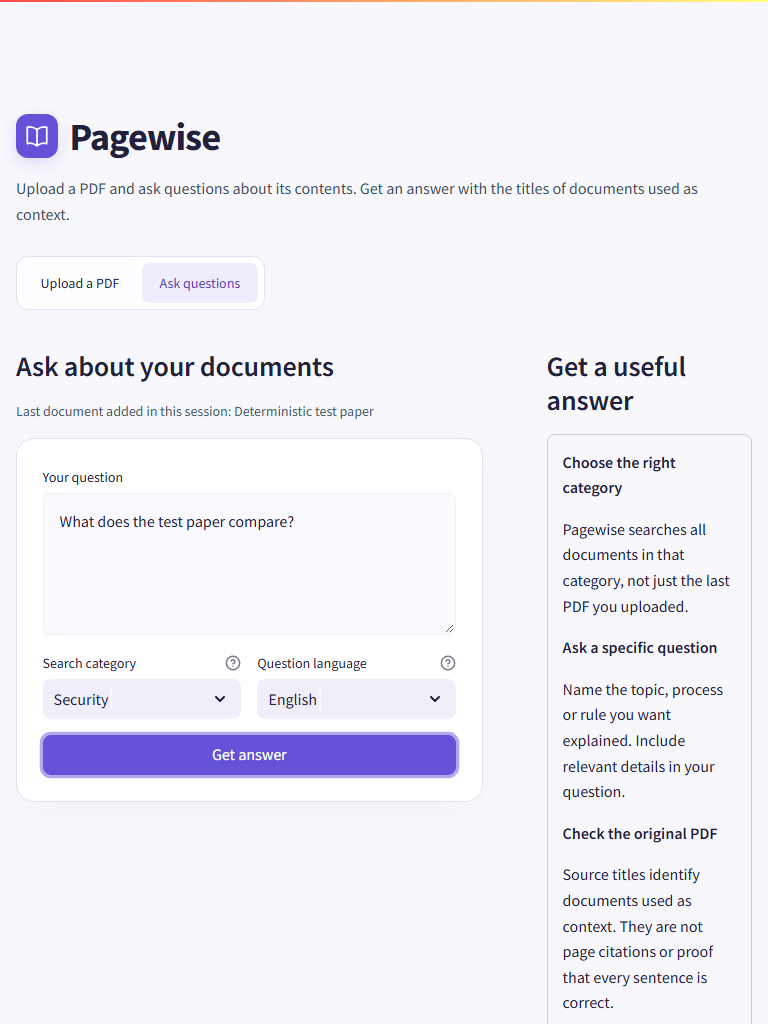
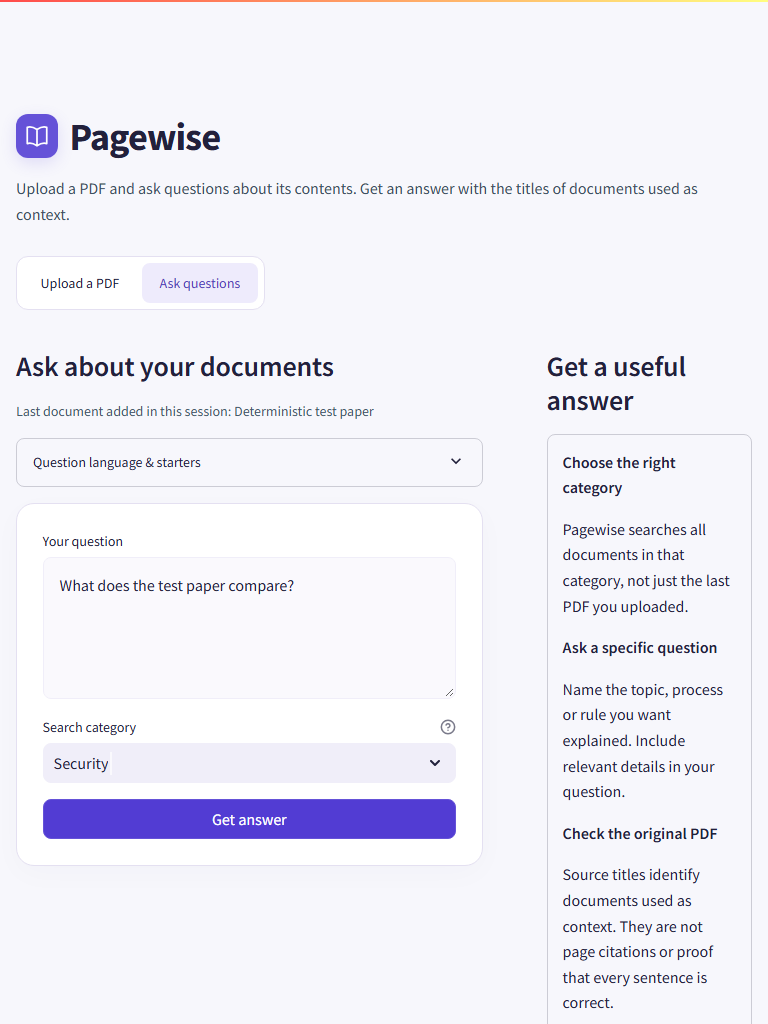
Add localized question starters, session history and answer downloads

diff --git a/frontend/app.py b/frontend/app.py
@@ -38,6 +38,50 @@ def post(path, **kwargs):
     return None
 
 
+QUESTION_STARTERS = {
+    "en": ["Explain the main idea described in the documents.", "What are the main steps described in the documents?", "What conditions or exceptions are mentioned in the documents?"],
+    "es": ["Explica la idea principal descrita en los documentos.", "\u00bfCu\u00e1les son los pasos principales descritos en los documentos?", "\u00bfQu\u00e9 condiciones o excepciones se mencionan en los documentos?"],
+    "fr": ["Expliquez l'id\u00e9e principale pr\u00e9sent\u00e9e dans les documents.", "Quelles sont les principales \u00e9tapes d\u00e9crites dans les documents ?", "Quelles conditions ou exceptions sont mentionn\u00e9es dans les documents ?"],
+    "it": ["Spiega l'idea principale descritta nei documenti.", "Quali sono i passaggi principali descritti nei documenti?", "Quali condizioni o eccezioni sono menzionate nei documenti?"],
+}
+
+
+def use_starter(index):
+    language = st.session_state.get("question_language", "en")
+    st.session_state.question_input = QUESTION_STARTERS.get(language, QUESTION_STARTERS["en"])[index]
+
+
+def show_saved_answer():
+    entry = st.session_state.question_history[st.session_state.history_choice]
+    st.session_state.answer = entry["response"]
+    st.session_state.answer_context = entry
+    st.session_state.question_input = entry["question"]
+    st.session_state.ask_domain = entry["domain"]
+    st.session_state.question_language = entry["source_language"]
+
+
+def clear_question_history():
+    for key in ("question_history", "history_choice", "answer", "answer_context"):
+        st.session_state.pop(key, None)
+    st.session_state.question_input = ""
+
+
+def answer_markdown(entry):
+    response = entry["response"]
+    titles = response.get("references", [])
+    sources = "\n".join("- " + " ".join(title.splitlines()) for title in titles) or "No source documents were retrieved."
+    language = LANGUAGES.get(response.get("language"), "Not recorded")
+    return (
+        "# Pagewise answer\n\n## Question\n" + entry["question"]
+        + "\n\nCategory: " + CATEGORY_LABELS[entry["domain"]]
+        + "\nAnswer language: " + language
+        + "\n\n## Answer\n" + response["answer"]
+        + "\n\n## Retrieved document titles\n" + sources
+        + "\n\nAI-generated answer. Verify important information in the original documents. "
+          "Document titles are not page-level or claim-level citations.\n"
+    )
+
+
 st.set_page_config(page_title="Pagewise", page_icon=":books:", layout="wide")
 st.markdown("""
 <style>
@@ -105,6 +149,7 @@ with tab_upload:
                         st.session_state.last_indexed = {"title": title.strip(), "domain": domain}
                         st.session_state.ask_domain = domain
                         st.session_state.pop("answer", None)
+                        st.session_state.pop("answer_context", None)
                     else:
                         st.error("The service did not confirm that the PDF was prepared. Check before uploading it again.")
         if "last_indexed" in st.session_state:
@@ -130,13 +175,15 @@ with tab_ask:
             st.caption("Last document added in this session: " + st.session_state.last_indexed["title"])
         else:
             st.caption("Upload a PDF first, or choose a category that already contains documents in the shared library.")
+        with st.expander("Question language & starters"):
+            language = st.selectbox("Question language", ["en", "auto", "es", "fr", "it"], format_func=lambda x: "Detect automatically" if x == "auto" else LANGUAGES[x], help="Select the language of your question. The answer will use the same language.", key="question_language")
+            st.caption("Choose a starter, then edit it before submitting. It uses your selected question language; automatic detection starts in English.")
+            for index, (column, label) in enumerate(zip(st.columns(3), ["Explain the main idea", "List the main steps", "Find conditions"])):
+                with column:
+                    st.button(label, on_click=use_starter, args=(index,), use_container_width=True)
         with st.form("ask_form"):
-            question = st.text_area("Your question", placeholder="What are the main steps described in this document?", height=140, max_chars=8000)
-            col_category, col_language = st.columns(2)
-            with col_category:
-                domain = st.selectbox("Search category", DOMAINS, format_func=CATEGORY_LABELS.get, key="ask_domain", help="Choose the category used when the PDF was uploaded. Answers may use multiple documents in that category.")
-            with col_language:
-                language = st.selectbox("Question language", ["en", "auto", "es", "fr", "it"], format_func=lambda x: "Detect automatically" if x == "auto" else LANGUAGES[x], help="Select the language of your question. The answer will use the same language.")
+            question = st.text_area("Your question", placeholder="What are the main steps described in this document?", height=140, max_chars=8000, key="question_input")
+            domain = st.selectbox("Search category", DOMAINS, format_func=CATEGORY_LABELS.get, key="ask_domain", help="Choose the category used when the PDF was uploaded. Answers may use multiple documents in that category.")
             submitted = st.form_submit_button("Get answer", type="primary", use_container_width=True)
         if submitted:
             st.session_state.pop("answer", None)
@@ -147,7 +194,10 @@ with tab_ask:
                     body = post("ask", json={"question": question.strip(), "domain": domain, "source_language": None if language == "auto" else language})
                 if body is not None:
                     if isinstance(body, dict) and isinstance(body.get("answer"), str):
+                        entry = {"question": question.strip(), "domain": domain, "source_language": language, "response": body}
                         st.session_state.answer = body
+                        st.session_state.answer_context = entry
+                        st.session_state.question_history = [entry] + st.session_state.get("question_history", [])[:9]
                     else:
                         st.error("The service returned an incomplete answer. Please try again.")
     with guide:
@@ -163,6 +213,10 @@ with tab_ask:
         body = st.session_state.answer
         st.divider()
         st.subheader("Answer")
+        context = st.session_state.get("answer_context")
+        if context:
+            st.caption("Question: " + context["question"] + " | Category: " + CATEGORY_LABELS[context["domain"]])
+            st.download_button("Download answer", data=answer_markdown(context), file_name="pagewise-answer.md", mime="text/markdown", help="Save this question, answer and retrieved document titles as a Markdown file.")
         with st.container(border=True):
             st.write(body["answer"])
         refs = body.get("references", [])
@@ -176,5 +230,16 @@ with tab_ask:
             st.info("No source documents to display. Check the category or upload a PDF before asking again.")
     else:
         st.caption("Your answer and source document titles will appear below after you submit a question.")
+    history = st.session_state.get("question_history", [])
+    if history:
+        with st.expander("Recent questions in this session"):
+            st.caption("Your last 10 successful questions, newest first. Reopening an answer does not call the model again. History is temporary and is not shared with other users.")
+            st.selectbox("Choose a previous question", list(range(len(history))), format_func=lambda index: history[index]["question"][:100] + " | " + CATEGORY_LABELS[history[index]["domain"]], key="history_choice")
+            reopen, clear = st.columns(2)
+            with reopen:
+                st.button("Show saved answer", on_click=show_saved_answer, use_container_width=True)
+            with clear:
+                st.button("Clear session history", on_click=clear_question_history, use_container_width=True)
+            st.caption("Clearing removes this session's questions and displayed answer. Uploaded documents remain in the shared library.")
 st.divider()
 st.caption("AI-generated answers can be incomplete or incorrect. Verify important information in the original documents.")

diff --git a/tests/test_frontend.py b/tests/test_frontend.py
@@ -55,3 +55,98 @@ def test_general_category_and_full_document_are_defaults():
     app = AppTest.from_file(APP).run()
     assert app.selectbox[0].value == 'Other'
     assert app.checkbox[0].value is False
+
+
+def click(app, label):
+    return next(button for button in app.button if button.label == label).click().run()
+
+
+def fixture_response(answer='Fixture answer'):
+    response = Mock(ok=True)
+    response.json.return_value = {'answer': answer, 'language': 'en', 'references': ['Fixture guide']}
+    return response
+
+
+def test_starter_prefills_without_provider_call():
+    with patch('requests.post') as post:
+        app = AppTest.from_file(APP).run()
+        click(app, 'List the main steps')
+        assert 'main steps' in app.text_area[0].value
+        post.assert_not_called()
+    assert not app.exception
+
+
+def test_starter_respects_selected_language():
+    app = AppTest.from_file(APP).run()
+    app.selectbox(key='question_language').select('fr').run()
+    click(app, 'List the main steps')
+    assert app.text_area[0].value.startswith('Quelles sont')
+    assert not app.exception
+
+
+def test_history_restores_answer_category_and_question_without_call():
+    with patch('requests.post', side_effect=[fixture_response('First answer'), fixture_response('Second answer')]) as post:
+        app = AppTest.from_file(APP).run()
+        app.text_area[0].input('First question')
+        click(app, 'Get answer')
+        app.selectbox(key='ask_domain').select('Security')
+        app.text_area[0].input('Second question')
+        click(app, 'Get answer')
+        assert len(app.session_state['question_history']) == 2
+        app.selectbox(key='history_choice').select(1).run()
+        click(app, 'Show saved answer')
+        assert app.session_state['answer']['answer'] == 'First answer'
+        assert app.text_area[0].value == 'First question'
+        assert app.selectbox(key='ask_domain').value == 'Other'
+        assert post.call_count == 2
+    assert not app.exception
+
+
+def test_history_is_bounded_and_can_be_cleared():
+    with patch('requests.post', return_value=fixture_response()):
+        app = AppTest.from_file(APP).run()
+        for index in range(12):
+            app.text_area[0].input(f'Question {index}')
+            click(app, 'Get answer')
+        history = app.session_state['question_history']
+        assert len(history) == 10
+        assert history[0]['question'] == 'Question 11'
+        assert history[-1]['question'] == 'Question 2'
+        click(app, 'Clear session history')
+        assert 'question_history' not in app.session_state
+        assert 'answer' not in app.session_state
+        assert app.text_area[0].value == ''
+    assert not app.exception
+
+
+def test_failed_question_does_not_enter_history():
+    with patch('requests.post', side_effect=requests.ConnectionError):
+        app = AppTest.from_file(APP).run()
+        app.text_area[0].input('Failed question')
+        click(app, 'Get answer')
+        assert 'question_history' not in app.session_state
+    assert not app.exception
+
+
+def test_answer_context_is_not_changed_by_draft_edits():
+    with patch('requests.post', return_value=fixture_response()):
+        app = AppTest.from_file(APP).run()
+        app.text_area[0].input('Original question')
+        click(app, 'Get answer')
+        app.text_area[0].input('Unsubmitted draft')
+        app.selectbox(key='ask_domain').select('Security').run()
+        assert app.session_state['answer_context']['question'] == 'Original question'
+        assert app.session_state['answer_context']['domain'] == 'Other'
+    assert not app.exception
+
+
+def test_recent_history_is_isolated_between_sessions():
+    with patch('requests.post', return_value=fixture_response()):
+        first = AppTest.from_file(APP).run()
+        first.text_area[0].input('Session one question')
+        click(first, 'Get answer')
+        second = AppTest.from_file(APP).run()
+        assert len(first.session_state['question_history']) == 1
+        assert 'question_history' not in second.session_state
+        assert 'answer' not in second.session_state
+    assert not second.exception

diff --git a/tests/browser_check.py b/tests/browser_check.py
@@ -2,7 +2,7 @@
 import re
 import os
 from pathlib import Path
-from playwright.sync_api import sync_playwright
+from playwright.sync_api import sync_playwright, expect
 
 ROOT = Path(__file__).resolve().parents[1]
 OUT = ROOT / 'docs' / 'images'
@@ -48,16 +48,40 @@ with sync_playwright() as p:
         page.get_by_role('button', name='Upload PDF', exact=True).click()
         page.get_by_text(re.compile('Ready to use:')).wait_for()
         page.get_by_role('tab', name='Ask questions').click()
-        assert 'Security' in page.locator('[role=tabpanel]:visible').get_by_test_id('stSelectbox').first.inner_text()
+        assert 'Security' in page.locator('[role=tabpanel]:visible').get_by_test_id('stSelectbox').filter(has_text='Search category').inner_text()
+        page.get_by_text('Question language & starters', exact=True).click()
+        page.get_by_role('button', name='List the main steps').click()
+        expect(page.get_by_role('textbox', name='Your question')).to_have_value(re.compile('.*main steps.*'))
+        page.get_by_text('Question language & starters', exact=True).click()
         page.get_by_role('textbox', name='Your question').fill('What does the test paper compare?')
         # Verify keyboard submission and a persistent answer.
         page.get_by_role('button', name='Get answer').focus()
         page.keyboard.press('Enter')
         page.get_by_text(re.compile('This is a test fixture, not a live model answer.')).wait_for()
         page.get_by_role('heading', name='Source documents').wait_for()
+        page.get_by_role('textbox', name='Your question').fill('An unsubmitted draft')
+        with page.expect_download() as saved:
+            page.get_by_role('button', name='Download answer').click()
+        exported = Path(saved.value.path()).read_text(encoding='utf-8')
+        assert saved.value.suggested_filename == 'pagewise-answer.md'
+        assert 'What does the test paper compare?' in exported
+        assert 'An unsubmitted draft' not in exported
+        assert 'Security' in exported and 'Deterministic test paper' in exported
+        assert 'not a live model answer' in exported
+        page.get_by_role('textbox', name='Your question').fill('What evidence supports this method?')
+        page.get_by_role('button', name='Get answer').click()
+        page.get_by_text('Question: What evidence supports this method? | Category: Security', exact=True).wait_for()
+        page.get_by_text('Recent questions in this session', exact=True).click()
+        page.get_by_role('combobox').last.click()
+        page.get_by_role('option', name=re.compile('What does the test paper compare')).click()
+        page.get_by_role('button', name='Show saved answer').click()
+        page.get_by_text('Question: What does the test paper compare? | Category: Security', exact=True).wait_for()
         assert page.evaluate('document.documentElement.scrollWidth <= window.innerWidth'), name
         page.evaluate("document.querySelectorAll('*').forEach(el => { if (el.scrollTop) el.scrollTop = 0; })")
         page.screenshot(path=str(OUT / f'{name}.png'), full_page=True)
-        print(f'{name}: upload, validation, keyboard submission, answer and sources passed; no page overflow')
+        page.get_by_role('button', name='Clear session history').click()
+        expect(page.get_by_role('textbox', name='Your question')).to_have_value('')
+        assert page.get_by_role('heading', name='Answer', exact=True).count() == 0
+        print(f'{name}: upload, starter, keyboard submission, download, saved-answer restore and clear passed; no page overflow')
         page.close()
     browser.close()

diff --git a/docs/VALIDATION.md b/docs/VALIDATION.md
@@ -6,7 +6,7 @@ Checked 8 November 2026 on Windows with Python 3.12.4.
 | --- | --- | --- |
 | Initial source compilation | Passed | All three Python services |
 | Initial test discovery | No tests existed | Baseline had no regression suite |
-| Regression suite | 33 passed | Agent API, translator logic, Streamlit forms |
+| Regression suite | 40 passed | Agent API, translator logic, Streamlit forms |
 | Dependency consistency | Passed | Isolated agent/frontend environment |
 | Browser interactions | Passed | Chromium at 390?844, 768?1024, 1440?1500 |
 | Mermaid rendering | 5 passed | Actual rendering using Mermaid 11.12.2 |
@@ -160,3 +160,13 @@ phone/tablet/desktop checks confirmed the purple brand mark, upload-first
 navigation, question validation and no page-width overflow. Frontend health
 returned HTTP 200 and GitHub CI passed. The old frontend is retained as a
 rollback option; the new frontend uses the same backend and private settings.
+
+## Session tools release
+
+Added localized question starters, ten-entry session history with restore/clear,
+and Markdown answer export. Regressions cover provider-free starters, language
+selection, history bounds, saved context, failure handling and session isolation.
+Browser fixture checks passed at 390x844, 768x1024 and 1440x1500: upload, starter
+selection, keyboard submission, actual answer download, saved-answer restore and
+history clearing. The downloaded file retained the original question after an
+unsubmitted draft edit, and included the response and source title.

diff --git a/README.md b/README.md
@@ -38,6 +38,9 @@ The phone and tablet images below use deterministic fixtures.
 | Ask questions | Category-filtered vector retrieval and Gemini generation | Requires configured providers; answers need checking |
 | Work across languages | English, Spanish, French, Italian | Translation can fail; retrieval quality is unbenchmarked |
 | Review sources | Show titles of retrieved documents | No page citations or verified claim-level attribution |
+| Start a question | Localized question starters you can edit before submitting | Templates, not generated recommendations |
+| Revisit answers | Reopen the last ten successful questions without another model call | Temporary browser session; no account history |
+| Save an answer | Download Markdown with question, answer, category and retrieved titles | Export is not a verified citation report |
 | Handle failures | Input validation, loading messages, useful errors | No offline answer fallback |
 
 No documents are bundled or automatically indexed. The library is shared across

diff --git a/docs/ARCHITECTURE.md b/docs/ARCHITECTURE.md
@@ -84,3 +84,15 @@ All users share one collection. There are no accounts, ownership filters,
 delete endpoints, OCR, automatic deduplication, or web search. Repeated uploads
 create more chunks. Prompt instructions request context-grounded answers but do
 not guarantee factuality or defend against all instructions embedded in papers.
+
+## Session conveniences
+
+Question starters are predefined templates and make no provider call. Successful
+responses are stored with the submitted question, category and language in
+Streamlit session state (maximum ten). Reopening an entry reads that response
+without rerunning retrieval or generation. It is not conversation memory for
+the model, an account history or a private document library.
+
+Markdown downloads use the saved request context, so editing an unsubmitted
+question does not relabel an old answer. Clearing session history also clears
+the displayed answer and question; it does not delete indexed documents.
